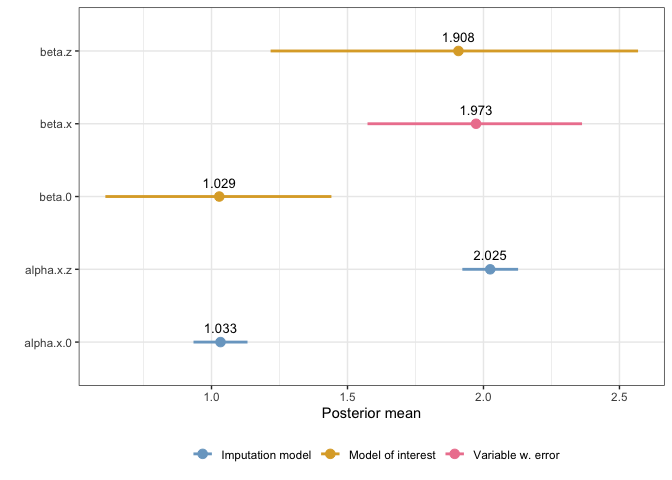
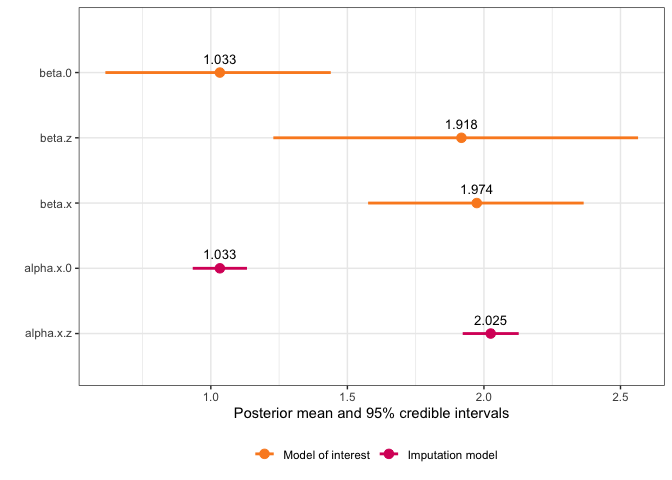
add formalities before release

diff --git a/README.md b/README.md
@@ -13,7 +13,7 @@ Fitting measurement error models and missing data imputation models in
 INLA is not trivial, and requires several workarounds in order to fit
 the model. At the same time, a Bayesian hierarchical framework is very
 attractive for modeling these types of data, since the hierarchical
-model structure alllows us to describe how the data were collected, and
+model structure allows us to describe how the data were collected, and
 any errors they may have, through the model specification. By supplying
 informative priors, we may be able to adjust for biases due to these
 errors, and propagate any uncertainty they cause. Until recently, it has
@@ -54,13 +54,14 @@ heavily on the priors you give them.
 
 Examples of how to use the package can be found in the vignettes.
 
-| Vignette name                                                                                                                                 | Likelihood for MOI | Error type                  | Other features                                                                        |
-|:----------------------------------------------------------------------------------------------------------------------------------------------|:-------------------|:----------------------------|:--------------------------------------------------------------------------------------|
-| [Influence of systolic blood pressure on coronary heart disease](https://emmaskarstein.github.io/inlamemi/articles/Framingham_heart_study.html) | Binomial           | Classical                   | Repeated measurements of error prone variable, interaction effect with error variable |
-| [Survival data with repeated systolic blood pressure measurements](https://emmaskarstein.github.io/inlamemi/articles/nhanes_survival.html)      | Weibull survival   | Classical, missing          | Repeated measurements of error prone variable                                         |
-| [Simulated examples (multiple examples)](https://emmaskarstein.github.io/inlamemi/articles/simulated_examples.html)                             | Gaussian, Binomial | Berkson, classical, missing | Random effect(s) in the model of interest, interaction effects                        |
-| [Multiple variables with measurement error and missingness](https://emmaskarstein.github.io/inlamemi/articles/multiple_error_variables.html)    | Gaussian           | Classical                   | Multiple mismeasured covariates                                                       |
-| [How are the models structured?](https://emmaskarstein.github.io/inlamemi/articles/Visualize_model_structure.html)                              |                    |                             | A deep dive into how the data is structured in order to correctly fit the model.      |
+| Vignette name                                                                                                                                   | Likelihood for MOI | Error type                  | Other features                                                                                                                                                                                                                                                                       |
+|:------------------------------------------------------------------------------------------------------------------------------------------------|:-------------------|:----------------------------|:-------------------------------------------------------------------------------------------------------------------------------------------------------------------------------------------------------------------------------------------------------------------------------------|
+| [Influence of systolic blood pressure on coronary heart disease](https://emmaskarstein.github.io/inlamemi/articles/Framingham_heart_study.html) | Binomial           | Classical                   | Repeated measurements of error prone variable, interaction effect with error variable                                                                                                                                                                                                |
+| [Survival data with repeated systolic blood pressure measurements](https://emmaskarstein.github.io/inlamemi/articles/nhanes_survival.html)      | Weibull survival   | Classical, missing          | Repeated measurements of error prone variable                                                                                                                                                                                                                                        |
+| [Simulated examples (multiple examples)](https://emmaskarstein.github.io/inlamemi/articles/simulated_examples.html)                             | Gaussian, Binomial | Berkson, classical, missing | Random effect(s) in the model of interest, interaction effects                                                                                                                                                                                                                       |
+| [Multiple variables with measurement error and missingness](https://emmaskarstein.github.io/inlamemi/articles/multiple_error_variables.html)    | Gaussian           | Classical                   | Multiple mismeasured covariates                                                                                                                                                                                                                                                      |
+| [How are the models structured?](https://emmaskarstein.github.io/inlamemi/articles/Visualize_model_structure.html)                              |                    |                             | A deep dive into how the data is structured in order to correctly fit the model.                                                                                                                                                                                                     |
+| [How to not use `inlamemi`](https://emmaskarstein.github.io/inlamemi/articles/how_to_not_use_inlamemi.html)                                     |                    |                             | An illustration of how the models can be fit without using `inlamemi`, in case you would like to extend the model in a way beyond what `inlamemi` will allow. This vignette can also be useful if you are familiar with R-INLA and want to understand how the models are structured. |
 
 ## Quick guide: How can I use this package?
 
@@ -103,7 +104,7 @@ imputation_formula <- x ~ z
 ```
 
 When adjusting for measurement error, we are completely dependent on
-having some information about the measurement error variaces
+having some information about the measurement error variances
 $\sigma_{u_c}^2$ (for the classical error) and $\sigma_{u_b}^2$ (for the
 Berkson error), since the size of this variance will affect how the
 estimates are biased. We can gain information about these variances in a
@@ -117,8 +118,8 @@ In this case, since we have in fact simulated the data ourselves, we
 know that the error variances are in both cases close to 1, so we
 specify priors that have modes at 1.
 
-In the `fit_inlamemi` function we also need to specify the likelihood for
-the model of interest, which in this case is Gaussian.
+In the `fit_inlamemi` function we also need to specify the likelihood
+for the model of interest, which in this case is Gaussian.
 
 ``` r
 simple_model <- fit_inlamemi(data = simple_data, 
@@ -151,33 +152,30 @@ summary(simple_model)
 #> [1] "berkson"   "classical" "missing"  
 #> 
 #> Fixed effects for model of interest: 
-#>            mean        sd 0.025quant 0.5quant 0.975quant     mode          kld
-#> beta.0 1.028548 0.2188368  0.6097294 1.026578   1.440866 1.022808 1.346282e-06
-#> beta.z 1.907911 0.3878413  1.2173268 1.897838   2.568392 1.907243 2.089575e-04
-#> 
-#> Coefficient for error prone variable: 
 #>            mean        sd 0.025quant 0.5quant 0.975quant     mode
-#> beta.x 1.972742 0.2003277   1.573609  1.97436   2.362362 1.981173
+#> beta.0 1.033026 0.2180123  0.6138633 1.033084   1.439243 1.027895
+#> beta.z 1.917584 0.3864576  1.2288394 1.909269   2.564330 1.914807
+#> 
+#> Coefficient for variable with measurement error and/or missingness: 
+#>           mean        sd 0.025quant 0.5quant 0.975quant     mode
+#> beta.x 1.97372 0.2004474    1.57592 1.974808   2.365151 1.979359
 #> 
 #> Fixed effects for imputation model: 
 #>               mean         sd 0.025quant 0.5quant 0.975quant     mode
-#> alpha.x.0 1.033082 0.05060429  0.9338041 1.033090   1.132312 1.033090
-#> alpha.x.z 2.024704 0.05226739  1.9222395 2.024686   2.127271 2.024686
-#>                   kld
-#> alpha.x.0 3.08253e-11
-#> alpha.x.z 5.34006e-11
+#> alpha.x.0 1.033072 0.05062702  0.9337517 1.033080   1.132348 1.033080
+#> alpha.x.z 2.024724 0.05229018  1.9222133 2.024707   2.127334 2.024707
 #> 
 #> Model hyperparameters (apart from beta.x): 
 #>                                      mean        sd 0.025quant  0.5quant
-#> Precision for model of interest 1.1258816 0.3559539  0.5653921 1.0795477
-#> Precision for x berkson model   1.1236710 0.3428887  0.5915006 1.0766021
-#> Precision for x classical model 0.9251172 0.1081467  0.7321893 0.9182961
-#> Precision for x imp model       0.9778940 0.1246609  0.7541300 0.9705136
+#> Precision for model of interest 1.1296438 0.3611017  0.5687836 1.0802476
+#> Precision for x berkson model   1.1276500 0.3432483  0.5969603 1.0798782
+#> Precision for x classical model 0.9246613 0.1082345  0.7314450 0.9178791
+#> Precision for x imp model       0.9766683 0.1246095  0.7541066 0.9689121
 #>                                 0.975quant      mode
-#> Precision for model of interest   1.951332 0.9952399
-#> Precision for x berkson model     1.927990 0.9891871
-#> Precision for x classical model   1.157418 0.9037195
-#> Precision for x imp model         1.244107 0.9568107
+#> Precision for model of interest   1.974715 0.9894367
+#> Precision for x berkson model     1.934947 0.9908576
+#> Precision for x classical model   1.157015 0.9034797
+#> Precision for x imp model         1.243899 0.9537543
 ```
 
 And we can use the default plot function to see a plot of the fixed

diff --git a/NEWS.md b/NEWS.md
@@ -1,0 +1,3 @@
+# inlamemi 1.0.0
+
+* Initial CRAN submission.
